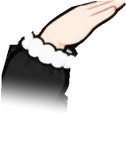
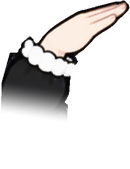
fix(desktop-pet): 这批审查修复:唱歌走开、躺下、被拎起就停,睡着不唱,有人说话时连歌声一起淡出;做不了的动作不再拖住队列;撒娇时双手收在身前;奉茶托盘等比放大;敬礼从外侧抬起不扫过眼睛、补上认真的眉和嘴、指尖不再被切;茶杯和茶在各配色里保持原色,托盘后面的衣服和头发不再跟着动;README 补全

Changed region(s): [[0.0, 0.0, 1.0, 0.6832]]

diff --git a/packages/cortico-world-desktop-pet/web/pet-core.js b/packages/cortico-world-desktop-pet/web/pet-core.js
@@ -612,7 +612,11 @@ export function createSfx({ storageKey = 'cortico-pet.sound.v1', volume = .55 } 
     if (filter) { const bq = c.createBiquadFilter(); bq.type = 'lowpass'; bq.frequency.value = filter; o.connect(bq); node = bq; }
     node.connect(g); g.connect(master);
     o.start(t0); o.stop(t0 + dur + .03);
+    if (tagged) tagged.push({ o, g });
   }
+  // the tones of a sound that can be hushed before it ends (a song), while it is being scheduled
+  let tagged = null;
+  const held = {};
   function noise({ type = 'bandpass', f0 = 1000, f1 = f0, q = 1, dur = .2, vol = .15, at = 0, attack = .01 }) {
     const c = ready(); if (!c) return;
     if (!noiseBuf) {
@@ -687,10 +691,21 @@ export function createSfx({ storageKey = 'cortico-pet.sound.v1', volume = .55 } 
     },
     // a whale's song: a soft, low call sliding up and back down, twice, quiet enough not to startle anyone
     song() {
+      held.song = tagged = [];
       for (let i = 0; i < 2; i++) {
         tone({ type: 'sine', f0: 220, f1: 330, dur: .9, vol: .045, vib: 6, vibRate: 5, attack: .3, at: .3 + i * 1.6 });
         tone({ type: 'sine', f0: 330, f1: 247, dur: .7, vol: .035, vib: 5, vibRate: 4, attack: .2, at: 1.2 + i * 1.6 });
       }
+      tagged = null;
+    },
+    /** Fades out what is left of a sound that can be cut short (`song`). */
+    hush(name) {
+      const c = ctx, list = held[name];
+      if (!c || !list) return;
+      for (const { o, g } of list) {
+        try { g.gain.cancelScheduledValues(c.currentTime); g.gain.setTargetAtTime(.0001, c.currentTime, .05); o.stop(c.currentTime + .3); } catch (e) { /* already stopped */ }
+      }
+      held[name] = null;
     },
     // a cup set down on its saucer; a crisp heel-click; a bright little "cheese!"
     clink() { tone({ f0: 2400, f1: 2300, dur: .12, vol: .05 }); tone({ f0: 3100, f1: 3000, dur: .1, vol: .035, at: .09 }); },
@@ -894,8 +909,9 @@ export function createPet(els, opts) {
     }
     // a flinch's step back is over once anything but standing takes over (a walk, a drag, a fall)
     if (pet.pulse?.kind === 'flinch' && m !== 'idle') pet.pulse.dx = 0;
-    // ...and a roll is over (picked up mid-roll, say)
+    // ...and a roll is over (picked up mid-roll, say); a song ends once she does anything but stand or sit
     if (pet.pulse?.kind === 'roll' && m !== 'idle') pet.pulse = null;
+    if (pet.pulse?.kind === 'song' && m !== 'idle' && m !== 'sit') endSong();
     // a back turned in a huff lasts through standing and sitting about; anything else turns her round again
     if (pet.pulse?.kind === 'away' && m !== 'idle' && m !== 'sit' && m !== 'sleep') pet.pulse = null;
     pet.mode = m; pet.modeT = 0; pet.turned = false; pet.startle = false; pet.skid = false; pet.cue = 0;
@@ -920,6 +936,8 @@ export function createPet(els, opts) {
   /** Runs a motion. Returns false when the body cannot take it now (in the air, being dragged). */
   function act(a) {
     if (busy()) return false;
+    // (a song needs her standing or sitting, awake and not being talked to)
+    if (a === 'song' && (pet.listening || (pet.mode !== 'idle' && pet.mode !== 'sit'))) return false;
     // (an asked-for expression still showing, not a motion's own face: hands on hips keeps it)
     const prevExpr = pet.exprOwn ? null : pet.expr, prevUntil = pet.exprUntil;
     pet.expr = null; pet.lastAct = a;
@@ -982,7 +1000,7 @@ export function createPet(els, opts) {
       // hands pressed together, pleading (also thanks or sorry); a sheepish scratch at the head when praised;
       // a finger up as an idea lands, a bulb lighting over her head; open arms for a hug
       // a whale's song: eyes shut, swaying, rings of sound spreading out and notes rising (not while someone is talking to her)
-      case 'song': if (pet.listening) return false; pulse('song', 4); holdFace('singing', 4.1); sfx.song(); break;
+      case 'song': pulse('song', 4); holdFace('singing', 4.1); sfx.song(); break;
       // a cup of tea on a tray offered to you; a crisp salute (yes ma'am); a V sign by her cheek, with a wink and a glint
       case 'serve': pulse('serve', 2.6); holdFace('gentle', 2.7); sfx.clink(); break;
       case 'salute': pulse('salute', 1.8); holdFace('saluting', 1.9); sfx.snap(); break;
@@ -1011,7 +1029,9 @@ export function createPet(els, opts) {
     }
     return true;
   }
-  function pulse(kind, dur) { pet.pulse = { kind, t0: T, dur }; }
+  function pulse(kind, dur) { if (pet.pulse?.kind === 'song' && kind !== 'song') sfx.hush?.('song'); pet.pulse = { kind, t0: T, dur }; }
+  /** Stops a song: its rings and notes, its face, and what is left of its tune. */
+  function endSong() { pet.pulse = null; if (pet.expr === 'singing') pet.expr = null; sfx.hush?.('song'); }
   /** A motion's own face, without the expression's sound and bounce (act() has just cleared any held face). */
   function holdFace(n, seconds) { pet.expr = n; pet.exprAt = T; pet.exprUntil = T + seconds; pet.exprOwn = true; pet.nextAt = Math.max(pet.nextAt, pet.exprUntil + .6); }
 
@@ -1305,7 +1325,7 @@ export function createPet(els, opts) {
     }
     // a song: someone starting to talk to her ends it; while it lasts, rings of sound spread from her and notes rise
     if (pet.pulse?.kind === 'song') {
-      if (pet.listening) { pet.pulse = null; pet.expr = null; }
+      if (pet.listening) endSong();
       else if (T > pet.noteAt) {
         const [x, y] = ancPt('gaze'), e = envelope((T - pet.pulse.t0) / pet.pulse.dur, .08, .9);
         if (e > .3) {

diff --git a/packages/cortico-world-desktop-pet/web/whale/figure.js b/packages/cortico-world-desktop-pet/web/whale/figure.js
@@ -518,7 +518,7 @@ export async function createWhaleFigure(base = new URL('./', import.meta.url), o
     scared: ['drag_mouth', .8], excited: 'happy_mouth', cry: ['surprised_mouth', .8], confused: -.35,
     disgusted: ['drag_mouth', .6], nervous: -.2,
     // [form, width]: a drawn mouth wider (or narrower) than the usual
-    gentle: .45, awkward: [.05, 1.6], giggle: .6, pleading: .25, moved: ['happy_mouth', .7], petrify: ['surprised_mouth', .5],
+    gentle: .45, awkward: [.05, 1.6], giggle: .6, pleading: .25, moved: ['happy_mouth', .7], petrify: ['surprised_mouth', .5], saluting: .15,
   };
 
   // where the face's outline is under each eye's tear (master y), with room for the stream's rounded end
@@ -697,7 +697,7 @@ export async function createWhaleFigure(base = new URL('./', import.meta.url), o
     smug: [.5, .6], pout: [.3, 0], worried: [-.3, .1], determined: [.9, .3], flustered: [.4, .8], scared: [-1, 0, -1],
     excited: [1, 1], cry: [-1, 0, -1], confused: [.2, .1], bowing: [-.2, .2],
     disgusted: [-.4, 0], nervous: [-.4, 0], peeking: [.6, .5],
-    gentle: [.1, .15], awkward: [-.4, 0], giggle: [.4, .5], pleading: [.2, .3], moved: [.4, .5], sighing: [-.3, 0], petrify: [.6, 0], coax: [.5, 1], singing: [.6, .6],
+    gentle: [.1, .15], awkward: [-.4, 0], giggle: [.4, .5], pleading: [.2, .3], moved: [.4, .5], sighing: [-.3, 0], petrify: [.6, 0], coax: [.5, 1], singing: [.6, .6], saluting: [.9, .3],
   };
   // brows by face, in master pixels: [lift of the whole brow, lift of its inner end (by the nose), extra lift of
   // the far brow]; a negative inner lift is the frown
@@ -708,7 +708,7 @@ export async function createWhaleFigure(base = new URL('./', import.meta.url), o
     smug: [1, -1], pout: [-1, -3], worried: [2, 4.5], determined: [0, -3], flustered: [2, 3.5], scared: [3, 4],
     excited: [3, 0], cry: [1, 5], confused: [1, 0, 5],
     disgusted: [-1.5, -2], nervous: [1.5, 2.5], peeking: [2.5, .5],
-    gentle: [1, 1.5], awkward: [1, 4], giggle: [1, 1], pleading: [2, 4.5], moved: [1, 4], sighing: [0, 2.5], petrify: [5, 1], coax: [2, 2.5], singing: [2.5, 1],
+    gentle: [1, 1.5], awkward: [1, 4], giggle: [1, 1], pleading: [2, 4.5], moved: [1, 4], sighing: [0, 2.5], petrify: [5, 1], coax: [2, 2.5], singing: [2.5, 1], saluting: [0, -3],
   };
   // the head by face: tilt (degrees, forward +) and pitch (angleY, down +)
   const HEAD_TILT = { shy: 7, thinking: -8, smug: -6, pout: -4, confused: -7, worried: 3, cry: 4, disgusted: -7, gentle: 6, awkward: -4, giggle: 5, pleading: 4, coax: 4 };
@@ -877,7 +877,7 @@ export async function createWhaleFigure(base = new URL('./', import.meta.url), o
     if (shiver) { aN = lerp(aN, -10, shiver); aF = lerp(aF, 8, shiver); }
     if (face === 'nervous') { aN = -7 + 2.5 * Math.sin(t * 5); aF = 6; }
     // coaxing, the hands come in together in front, swaying with her
-    if (face === 'coax') { aN = 16 + 4 * (fc.rock || 0); aF = -12 + 4 * (fc.rock || 0); }
+    if (face === 'coax' && !g) { aN = -9 + 3 * (fc.rock || 0); aF = 9 + 3 * (fc.rock || 0); }
     // a flinch hugs the arms in tight; a peek holds them a little back and out, out of the way
     if (flinch) { aN = lerp(aN, -16, flinch); aF = lerp(aF, 14, flinch); }
     if (peek) { aN = lerp(aN, 14, peek); aF = lerp(aF, -6, peek); }
@@ -965,7 +965,7 @@ export async function createWhaleFigure(base = new URL('./', import.meta.url), o
       const swap = gk < .5 ? smooth(.05, .3, on) : smooth(.4, .55, on), up = smooth(.1, .5, on), lift = pg === propG ? 11 * sip : 0;
       // (pleading, the pressed hands bob twice a second; held out for a hug, the arms sway a little wider)
       const bob = pg === 'pray' ? 1.5 * Math.abs(Math.sin(t * 6)) : 0, sway = pg === 'hug' ? .02 * Math.sin(t * 2.2) : pg === 'serve' ? .05 * smooth(.2, .45, gk) * on : 0;
-      st[id] = { ty: 7 * (1 - up) + bob * up, a: (pg === 'sip' ? 1.2 : pg === 'hips' ? 0 : .6) * Math.sin(t * 1.3) * up - .4 * lift, sx: 1 + sway * up };
+      st[id] = { ty: 7 * (1 - up) + bob * up, a: (pg === 'sip' ? 1.2 : pg === 'hips' ? 0 : .6) * Math.sin(t * 1.3) * up - .4 * lift, sx: 1 + sway * up, sy: 1 + (pg === 'serve' ? sway * up : 0) };
       st[id + 'Lift'] = { fn: (u, v) => [0, -lift * (1 - smooth(.5, .95, v))] };
       st.alpha.arm_near *= 1 - swap; st.alpha.arm_far *= 1 - swap; st.alpha.arm_far_end_front *= 1 - swap; farFree *= 1 - swap;
       for (const p of pose.required) st.alpha[p.id] = tex[p.tex] ? swap : 0;
@@ -980,7 +980,7 @@ export async function createWhaleFigure(base = new URL('./', import.meta.url), o
       const snap = rg === 'salute' && on > 0;
       const { swap, lift, dir } = snap
         ? { swap: gk < .5 ? smooth(.02, .07, gk) : 1 - smooth(.88, .93, gk), lift: 1,
-          dir: pose.rest + 25 * (1 - smooth(.03, .12, gk)) - 6 * Math.sin(Math.PI * clamp((gk - .12) / .08, 0, 1)) + 20 * smooth(.86, .93, gk) }
+          dir: pose.rest - 25 * (1 - smooth(.03, .12, gk)) + 6 * Math.sin(Math.PI * clamp((gk - .12) / .08, 0, 1)) - 20 * smooth(.86, .93, gk) }
         : BENT_RAISES.includes(rg)
           ? { swap: gk < .5 ? smooth(.05, .3, on) : smooth(.4, .55, on), lift: smooth(.1, .5, on), dir: pose.rest + 12 * (1 - smooth(.1, .5, on)) }
           : cheerHandover(on, armBase, RAISE_TO, pose.rest);

diff --git a/tests/pet-actions.test.js b/tests/pet-actions.test.js
@@ -947,6 +947,28 @@ describe('coaxing, a song, serving tea, a salute and a V sign', () => {
     pet.setListening(false);
   });
 
+  it('a song ends once she walks off, lies down or is picked up, and is not sung asleep; its tune is hushed', () => {
+    const hushed = [];
+    const el = () => ({ setAttribute() {}, innerHTML: '' });
+    const sfx = new Proxy({}, { get: (o, k) => (k === 'hush' ? n => hushed.push(n) : () => {}) });
+    const pet = createPet({ petG: el(), shadowEl: el(), fxG: el() }, { sfx, roam: 'off', bounds: () => ({ W: 1200, H: 400, floorY: 380, S: .42 }) });
+    pet.resize();
+    run(pet, 1);
+    pet.act('song');
+    run(pet, .5);
+    pet.walkTo(100, false, 'w');
+    run(pet, .1);
+    expect(pet.pet.pulse).toBeNull();
+    expect(hushed).toEqual(['song']);
+    run(pet, 4);
+    pet.act('sleep');
+    run(pet, 1);
+    expect(pet.act('song')).toBe(false);
+    pet.act('sit');
+    run(pet, 1);
+    expect(pet.act('song')).toBe(true);
+  });
+
   it('a salute looks serious with the hand up and winks as it comes down', () => {
     const pet = barePet();
     run(pet, 1);

diff --git a/packages/cortico-world-desktop-pet/web/pet-app.js b/packages/cortico-world-desktop-pet/web/pet-app.js
@@ -220,8 +220,8 @@ function runAction(a) {
     if (ctl.walkTo(x, a === 'run', id)) { actWait = { walkId: id }; walkTargets.set(id, true); }
     return 12;
   }
-  ctl.act(a);
-  return DUR[a] ?? 1;
+  // (a motion she cannot take now holds the queue only a moment)
+  return ctl.act(a) === false ? .3 : DUR[a] ?? 1;
 }
 function stepActs() {
   const now = ctl.time;

diff --git a/README.md b/README.md
@@ -159,7 +159,7 @@ Speech is recognized on your machine by **FunASR** (the SenseVoiceSmall model) a
 ### Playing with Coo
 
 - **Click** to poke it, **move back and forth over its head** to pat it, **press and drag** to pick it up; let go mid-swing to throw it. A poke makes Coo respond. Pats and pick-ups are passed on the next time it wakes. To have every touch wake it, set the desktop pet World's touch wake option to `all` in advanced mode.
-- **Expressions and motions**: Coo pairs what it says with a face and a motion. Faces: happy, wink, love, shy (ducks away, then sneaks a peek), surprised, angry, sad (looks at the floor), sleepy, thinking, smug, pout, worried, determined, flustered, scared, excited (starry eyes), crying, confused, disgusted, nervous, gentle, awkward (a strained smile), giggle, moved (happy tears), petrify (turned to stone, cracking), coax. Motions include nod, shake, look around, turn, spin, jump, cheer, heart hands, sit, lie down (on her front, chin on her hands, kicking her feet now and then; she can doze off like that too), sleep, wave, bow, shiver, flap, dance, flinch, peek, turn away (her back to you in a huff for a few seconds; Coo just hides her face), roll (a forward roll and back on her feet), sip, read, spout (a whale's spout of water from the top of the head), sigh, pray (hands pressed together), scratch (a sheepish scratch at the head), idea (a bulb lights up), hands on hips, hug, song, serve tea, salute, V sign. As the DeepSeek Whale, a nod really dips the head and a shake turns the face, a wave raises the arm nearer you and waves an open hand, a cheer throws both hands up beside her head, a heart is made with both hands in front of her chest, a sip comes from a steaming cup held in both hands, reading she holds a book open and looks down at it, a roll curls her into a ball, she presses her hands together to plead, scratches her head, raises a finger for an idea, puts her hands on her hips and opens her arms for a hug, a bow or a peek tips the upper body forward, turning round or spinning shows her back halfway, turning away (standing) shows her back for a few seconds while seated she only looks away, her hair, skirt and tail swing when she dances, thinking, she rests her chin on her hand, and lying down switches to a drawing of her own that blinks, nods, kicks her feet and wags her tail.
+- **Expressions and motions**: Coo pairs what it says with a face and a motion. Faces: happy, wink, love, shy (ducks away, then sneaks a peek), surprised, angry, sad (looks at the floor), sleepy, thinking, smug, pout, worried, determined, flustered, scared, excited (starry eyes), crying, confused, disgusted, nervous, gentle, awkward (a strained smile), giggle, moved (happy tears), petrify (turned to stone, cracking), coax (sweet-talking, with a cat's ω mouth). Motions include nod, shake, look around, turn, spin, jump, cheer, heart hands, sit, lie down (on her front, chin on her hands, kicking her feet now and then; she can doze off like that too), sleep, wave, bow, shiver, flap, dance, flinch, peek, turn away (her back to you in a huff for a few seconds; Coo just hides her face), roll (a forward roll and back on her feet), sip, read, spout (a whale's spout of water from the top of the head), sigh, pray (hands pressed together), scratch (a sheepish scratch at the head), idea (a bulb lights up), hands on hips, hug, song, serve tea, salute, V sign. As the DeepSeek Whale, a nod really dips the head and a shake turns the face, a wave raises the arm nearer you and waves an open hand, a cheer throws both hands up beside her head, a heart is made with both hands in front of her chest, a sip comes from a steaming cup held in both hands, reading she holds a book open and looks down at it, a roll curls her into a ball, she presses her hands together to plead, scratches her head, raises a finger for an idea, puts her hands on her hips and opens her arms for a hug, coaxing she rocks side to side with a cat's mouth, singing she shuts her eyes while rings of sound spread out and her fins beat time, she offers you a steaming cup of tea on a tray, snaps a salute to her brow and makes a V sign beside her cheek, a bow or a peek tips the upper body forward, turning round or spinning shows her back halfway, turning away (standing) shows her back for a few seconds while seated she only looks away, her hair, skirt and tail swing when she dances, thinking, she rests her chin on her hand, and lying down switches to a drawing of her own that blinks, nods, kicks her feet and wags her tail.
 - **Right-click** for the menu: pause / resume, settings, quit, plus typing, voice input, walking, night mode, sounds, dress up and hide.
 - **Hover buttons**: the buttons beside Coo while the pointer rests on it. Typing and voice by default; pick up to six in Habits.
 - **Remember where Coo stands**: turn it on in Habits and Coo returns to the same spot across the screen on the next start.

diff --git a/README_zh.md b/README_zh.md
@@ -157,7 +157,7 @@ irm https://raw.githubusercontent.com/Pal-AI-Lab/Coopanion/main/installer/instal
 ### 和 Coo 互动
 
 - **点一下**是戳它，**在头上来回划**是摸头，**按住拖动**是拎起来，松手可以甩出去。戳它会让它回应；摸头和拎起只在下次它说话时一并告诉它。想让每种互动都唤醒它，在高级模式桌宠 World 的「哪些互动单独唤醒」里选 `all`。
-- **表情和动作**：Coo 说话时会配上表情和动作。表情有开心、眨眼、喜欢、害羞（低头躲开，过一会儿偷看你一眼）、惊讶、生气、难过（低头看地）、犯困、思考、得意、嘟嘴、担心、认真、慌张、害怕、期待（星星眼）、大哭、疑惑、嫌弃、紧张、温柔、尴尬（苦笑）、偷笑、感动（笑着含泪）、石化（当场变成石像裂开）、撒娇；动作有点头、摇头、张望、转身、转圈、跳、欢呼、比心、坐下、趴下（托着下巴趴着，时不时踢踢脚，趴着睡着也行）、睡觉、招手、鞠躬、发抖、扑腾、跳舞、后缩、探头、背过身（赌气背对你几秒再转回来，Coo 是把脸藏起来）、翻滚（向前滚一圈再站起来）、喝茶、看书、喷水（像鲸鱼一样从头顶喷出一束水花）、叹气、拜托（双手合十）、挠头、有了（头顶亮起灯泡）、叉腰、抱抱、唱歌、奉茶、敬礼、比耶等。换成大肥鱼时，点头和摇头是真的低头、转脸，招手时举起靠近你的那只手、张开手掌挥动，欢呼时双手举到头两侧，比心时双手在胸前比个心，喝茶时双手捧着冒热气的杯子喝一口，看书时捧着书低头看，翻滚时团成一个球滚一圈，拜托时双手合十，挠头时手放在头侧挠，有了时竖起食指，叉腰时双手叉在腰上，抱抱时张开双臂，鞠躬和探头时上身往前倾，站着转身、转圈时转到一半露出背影，背过身时整个背对你（坐着时只把脸转开），跳舞时头发、裙摆和尾巴跟着甩；思考时用手托着下巴；趴下时换成一张专门画的趴姿，会眨眼、点头、轮流踢脚、摇尾巴。
+- **表情和动作**：Coo 说话时会配上表情和动作。表情有开心、眨眼、喜欢、害羞（低头躲开，过一会儿偷看你一眼）、惊讶、生气、难过（低头看地）、犯困、思考、得意、嘟嘴、担心、认真、慌张、害怕、期待（星星眼）、大哭、疑惑、嫌弃、紧张、温柔、尴尬（苦笑）、偷笑、感动（笑着含泪）、石化（当场变成石像裂开）、撒娇；动作有点头、摇头、张望、转身、转圈、跳、欢呼、比心、坐下、趴下（托着下巴趴着，时不时踢踢脚，趴着睡着也行）、睡觉、招手、鞠躬、发抖、扑腾、跳舞、后缩、探头、背过身（赌气背对你几秒再转回来，Coo 是把脸藏起来）、翻滚（向前滚一圈再站起来）、喝茶、看书、喷水（像鲸鱼一样从头顶喷出一束水花）、叹气、拜托（双手合十）、挠头、有了（头顶亮起灯泡）、叉腰、抱抱、唱歌、奉茶、敬礼、比耶等。换成大肥鱼时，点头和摇头是真的低头、转脸，招手时举起靠近你的那只手、张开手掌挥动，欢呼时双手举到头两侧，比心时双手在胸前比个心，喝茶时双手捧着冒热气的杯子喝一口，看书时捧着书低头看，翻滚时团成一个球滚一圈，拜托时双手合十，挠头时手放在头侧挠，有了时竖起食指，叉腰时双手叉在腰上，抱抱时张开双臂，撒娇时 ω 猫嘴、左右晃，唱歌时闭着眼、声波一圈圈散开、鳍打拍子，奉茶时端着托盘递上热茶，敬礼时手“啪”地抬到眉边，比耶时在脸边比个 V，鞠躬和探头时上身往前倾，站着转身、转圈时转到一半露出背影，背过身时整个背对你（坐着时只把脸转开），跳舞时头发、裙摆和尾巴跟着甩；思考时用手托着下巴；趴下时换成一张专门画的趴姿，会眨眼、点头、轮流踢脚、摇尾巴。
 - **右键**打开菜单：暂停 / 继续、设置、退出，以及打字、语音输入、行为模式、夜间模式、音效、装扮、隐藏。
 - **悬停按钮**：鼠标停在 Coo 身上时旁边的按钮，默认是打字和语音，在「习惯」页最多可选六个。
 - **记住位置**：在「习惯」页打开后，下次启动 Coo 回到上次的横向位置。
